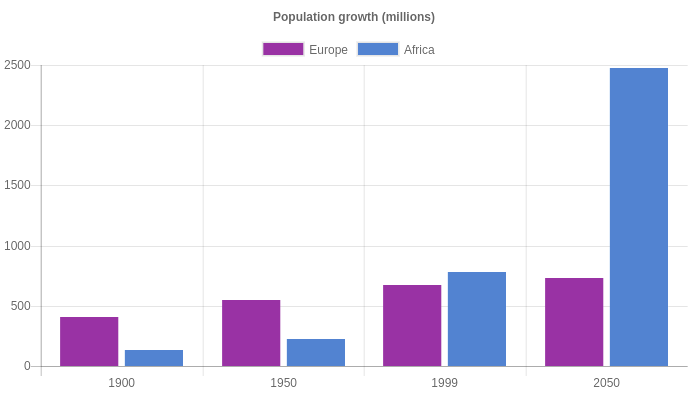
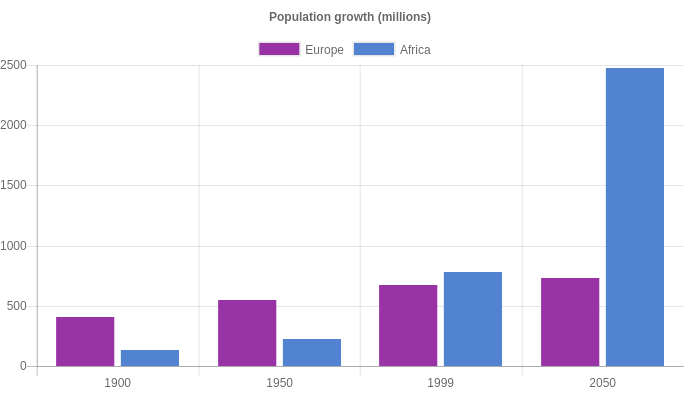
edit grouped bars chart sample in readme

diff --git a/README.md b/README.md
@@ -331,6 +331,52 @@ export default class App extends Component {
 }
 ```
 
+### Grouped bars chart
+
+![Grouped bars chart](https://github.com/codefacebook/react-chartjsx/blob/master/images/grouped-bar-chart.png)
+
+```
+import { Bar } from 'react-chartjsx'
+
+export default class App extends Component {
+  state = {
+    groupedBarsChartData: {
+      labels: ["1900", "1950", "1999", "2050"],
+      datasets: [
+        {
+          label: "Africa",
+          backgroundColor: "#3e95cd",
+          data: [133,221,783,2478]
+        }, {
+          label: "Europe",
+          backgroundColor: "#8e5ea2",
+          data: [408,547,675,734]
+        }
+      ]
+    }
+  }
+
+  constructor(props) {
+    super(props)
+  }
+
+  render() {
+    const chartOptions = {
+      responsive: false
+    }
+
+    return (
+      <div>
+        <Bar data={this.state.groupedBarsChartData} 
+             options={chartOptions} 
+             width={800} 
+             height={400} />
+      </div>
+    )
+  }
+}
+```
+
 ## Contributing
 
 We'd love to have your helping hand on contributions to react-chartjsx by forking and sending a pull request!
